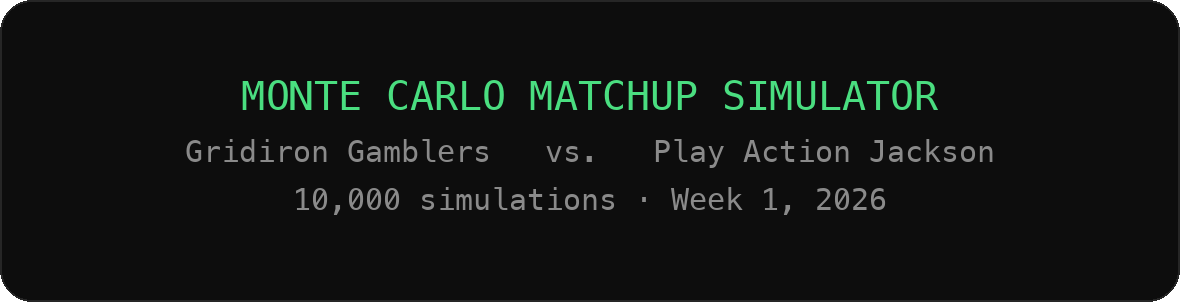
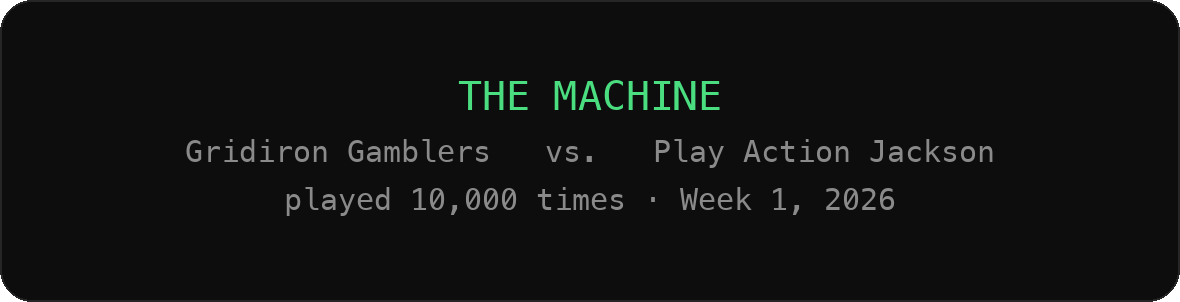
Rebrand to The Machine and make it legible to a first-time visitor
Written for someone arriving from an Instagram DM on a phone who has never seen
this and does not know what a simulation is.

Branding. "MONTE CARLO MATCHUP SIMULATOR" becomes "THE MACHINE" with the
subline "Broomiie's Ball Knowers - your matchup, played 10,000 times", in the
page title, meta description, header and the generated report. The CLI banner
follows so the two stay consistent, and the launch-asset cards are regenerated
from it.

Jargon. The main screen no longer says Monte Carlo, lognormal, common random
numbers, standard error or percentile anywhere - checked programmatically
against the rendered report. The report footer drops "lognormal skill scoring -
common random numbers" for "played 10,000 times - seed 1234"; the technical
description moves to How It Works. The demo-data notice is rewritten in plain
English.

Onboarding. A three-step welcome card on first load only, behind a localStorage
flag, dismissed with "Let's go". A "?" in the header reopens it. If storage is
unavailable the card simply shows every time, which is the harmless direction to
fail in.

How It Works. A panel linked from the header: what a simulation is, why the
coin-flip verdict exists, why the tool refuses to guess rosters from memory,
what the provenance footer means, and what floor/ceiling is - all in plain
English, with Monte Carlo, lognormal draws, paired comparisons and quickselect
kept below a "for the nerds" rule, with links to ENGINE.md and the repo.
[…]

Changed region(s): [[0.2441, 0.6258, 0.7627, 0.7152], [0.1831, 0.2682, 0.5186, 0.3874], [0.5492, 0.2682, 0.7932, 0.3874]]

diff --git a/index.html b/index.html
@@ -3,10 +3,17 @@
 <head>
 <meta charset="utf-8">
 <meta name="viewport" content="width=device-width, initial-scale=1, viewport-fit=cover">
-<title>Monte Carlo Matchup Simulator</title>
+<title>The Machine — Broomiie's Ball Knowers</title>
 <meta name="theme-color" content="#fafaf8">
 <script>try{var t=localStorage.getItem("fantasy-sim-theme");if(t==="dark")document.documentElement.setAttribute("data-theme","dark");}catch(e){}</script>
-<meta name="description" content="Head-to-head fantasy football matchup simulator. Monte Carlo with real error bars and coin-flip honesty when calls are inseparable.">
+<meta name="description" content="The Machine — Broomiie's Ball Knowers. Your fantasy matchup, played 10,000 times. Start/sit verdicts, win odds, and no fake confidence.">
+<link rel="manifest" href="manifest.webmanifest">
+<link rel="apple-touch-icon" href="apple-touch-icon.png">
+<link rel="icon" href="icon-192.png" type="image/png">
+<meta name="mobile-web-app-capable" content="yes">
+<meta name="apple-mobile-web-app-capable" content="yes">
+<meta name="apple-mobile-web-app-title" content="The Machine">
+<meta name="apple-mobile-web-app-status-bar-style" content="default">
 <style>
 /* Light is the default; [data-theme="dark"] on <html> swaps the tokens.
    Every text colour below is AA (>=4.5:1) on its own background; --dim is
@@ -139,6 +146,52 @@ footer{color:var(--muted);font-size:11px;text-align:center;padding:18px 0 26px;l
 footer a{color:var(--muted);text-decoration:none;border-bottom:1px solid var(--edge)}
 footer a:hover{color:var(--accent);border-color:var(--accent)}
 .sep{color:var(--dim);margin:0 7px}
+/* ── header extras ── */
+.hbtns{display:flex;gap:7px;flex:0 0 auto}
+header .sub{margin-bottom:5px}
+.hiwrow{margin:0 0 16px}
+.linkbtn{background:none;border:0;color:var(--accent);font-family:inherit;font-size:12px;
+  letter-spacing:.04em;padding:6px 0;min-height:34px;border-bottom:1px solid transparent}
+.linkbtn:hover{border-bottom-color:var(--accent)}
+
+/* ── overlay (welcome + how it works) ── */
+body.locked{overflow:hidden}
+.ovl{position:fixed;inset:0;z-index:60;background:rgba(0,0,0,.55);
+  display:flex;justify-content:center;padding:14px;overflow-y:auto;-webkit-overflow-scrolling:touch}
+.ovl-card{position:relative;margin:auto;width:100%;max-width:560px;
+  background:var(--panel);border:1px solid var(--edge);border-radius:14px;
+  padding:20px 18px 24px;box-shadow:0 14px 44px rgba(0,0,0,.34)}
+.ovl-x{position:absolute;top:7px;right:7px;width:42px;height:42px;border-radius:10px;
+  background:none;border:0;color:var(--muted);font-size:15px;line-height:1;font-family:inherit}
+.ovl-x:hover{color:var(--text)}
+#ovlBody h2{font-size:14px;letter-spacing:.15em;color:var(--accent);margin:0 0 12px;padding-right:44px}
+#ovlBody h3{font-size:12.5px;letter-spacing:.05em;color:var(--text);margin:22px 0 7px;font-weight:700}
+#ovlBody h3.nerd{margin-top:28px;padding-top:20px;border-top:1px solid var(--edge)}
+#ovlBody p{font-size:13px;line-height:1.68;color:var(--muted);margin:0 0 11px}
+#ovlBody p b{color:var(--text)}
+#ovlBody a{color:var(--accent)}
+#ovlBody code{background:var(--bg);border:1px solid var(--edge);border-radius:4px;
+  padding:1px 5px;font-size:12px;color:var(--text)}
+.lede{font-size:13px;color:var(--muted);margin:0 0 14px}
+.steps{margin:0 0 20px;padding-left:20px}
+.steps li{font-size:13px;line-height:1.65;color:var(--muted);margin-bottom:12px;padding-left:3px}
+.steps li b{color:var(--text)}
+.cta{width:100%;background:var(--btn-bg);color:var(--btn-fg);border:0;font-weight:700;
+  font-family:inherit;font-size:15px;letter-spacing:.08em;min-height:52px;border-radius:10px}
+.cta:active{transform:translateY(1px)}
+.fine{font-size:11px;color:var(--muted);text-align:center;margin:13px 0 0}
+
+/* ── plain-English helpers ── */
+.fhint{font-style:normal;font-size:10px;color:var(--muted);letter-spacing:0;line-height:1.45;margin-top:2px}
+.qm{background:none;border:1px solid var(--edge);color:var(--muted);border-radius:50%;
+  width:17px;height:17px;min-height:0;font-size:9.5px;line-height:1;padding:0;font-family:inherit}
+.qm:hover{color:var(--accent);border-color:var(--accent)}
+.runbar .f>span{display:flex;align-items:center;gap:4px}
+.tip{position:fixed;left:12px;right:12px;z-index:25;
+  bottom:calc(80px + env(safe-area-inset-bottom));
+  background:var(--panel);border:1px solid var(--accent);border-radius:10px;
+  padding:11px 13px;font-size:12px;line-height:1.5;color:var(--text);box-shadow:0 6px 20px rgba(0,0,0,.22)}
+
 @media (max-width:359px){
   .wrap{padding:16px 10px 8px}
   .panel{padding:12px 10px}
@@ -157,10 +210,14 @@ footer a:hover{color:var(--accent);border-color:var(--accent)}
 <div class="wrap">
   <header>
     <div class="hrow">
-      <h1>MONTE CARLO MATCHUP SIMULATOR</h1>
-      <button class="tt" id="themeToggle" type="button" aria-label="Switch to dark theme">🌙</button>
+      <h1>THE MACHINE</h1>
+      <div class="hbtns">
+        <button class="tt" id="helpBtn" type="button" aria-label="Show the welcome guide">?</button>
+        <button class="tt" id="themeToggle" type="button" aria-label="Switch to dark theme">🌙</button>
+      </div>
     </div>
-    <p class="sub">Head-to-head fantasy football, simulated 10,000 times.</p>
+    <p class="sub">Broomiie&rsquo;s Ball Knowers &middot; your matchup, played 10,000 times.</p>
+    <p class="hiwrow"><button class="linkbtn" id="hiwBtn" type="button">How it works &rarr;</button></p>
     <p class="note" id="snapshotNote"></p>
   </header>
 
@@ -180,7 +237,7 @@ footer a:hover{color:var(--accent);border-color:var(--accent)}
 
   <section class="panel" id="csvPanel" hidden>
     <div class="panelhead"><h2>CSV IMPORT / EXPORT</h2></div>
-    <p class="sub" style="margin-bottom:9px">Same columns as <code>projections.csv</code>, so lineups round-trip with <code>sim.py</code>.</p>
+    <p class="sub" style="margin-bottom:9px">Copy your lineup out, or paste one in. Same format the command-line version uses.</p>
     <textarea id="csvText" spellcheck="false" aria-label="CSV data"></textarea>
     <div class="csvrow">
       <button class="csvbtn" id="btnCsvLoad" type="button">LOAD FROM TEXT</button>
@@ -194,9 +251,60 @@ footer a:hover{color:var(--accent);border-color:var(--accent)}
   <footer id="foot"></footer>
 </div>
 
+<div class="ovl" id="overlay" hidden>
+  <div class="ovl-card" role="dialog" aria-modal="true">
+    <button class="ovl-x" id="ovlClose" type="button" aria-label="Close">&#10005;</button>
+    <div id="ovlBody"></div>
+  </div>
+</div>
+
+<div id="tplWelcome" hidden>
+  <h2>WELCOME 🏈</h2>
+  <p class="lede">The whole thing, in three steps.</p>
+  <ol class="steps">
+    <li><b>Put in your players.</b> Tap a team and enter your league&rsquo;s players and projections &mdash; or just hit RUN to see a demo.</li>
+    <li><b>Hit RUN.</b> The machine plays your matchup 10,000 times.</li>
+    <li><b>Read your verdicts.</b> Start/sit calls, win odds, floor and ceiling, and the biggest edge sitting on your bench.</li>
+  </ol>
+  <button class="cta js-go" type="button">Let&rsquo;s go 🏈</button>
+  <p class="fine">You can reopen this any time with the <b>?</b> up top.</p>
+</div>
+
+<div id="tplHiw" hidden>
+  <h2>HOW IT WORKS</h2>
+
+  <h3>What this actually does</h3>
+  <p>Nobody knows what your players will score on Sunday. So rather than guess once, the machine plays your matchup <b>10,000 times</b> &mdash; 10,000 alternate Sundays, each one a little different &mdash; and counts how often you win.</p>
+  <p>That&rsquo;s where your win odds come from. Not a hunch. A tally.</p>
+
+  <h3>Why it sometimes says &ldquo;coin flip&rdquo;</h3>
+  <p>Every number here comes with a margin for error. When two lineup choices are closer together than that margin, the machine says so instead of picking one anyway.</p>
+  <p>That&rsquo;s deliberate. A tool that always sounds confident is bluffing some of the time. This one would rather tell you the truth: <i>it genuinely doesn&rsquo;t matter &mdash; go with whoever&rsquo;s injury report you like better.</i></p>
+
+  <h3>Why it won&rsquo;t guess your roster</h3>
+  <p>Players get traded. A tool that &ldquo;remembers&rdquo; rosters goes stale the day someone changes teams, and you&rsquo;d never know &mdash; it would quietly simulate the wrong guy on the wrong team and hand you a confident answer.</p>
+  <p>So the machine knows nothing on its own. Every name, team and number comes from the data in front of you. If something&rsquo;s wrong you can see it, and fix it in one tap.</p>
+
+  <h3>The small print under your results</h3>
+  <p>That last line tallies where each projection came from. <b>consensus</b> came straight from a public projection table. <b>derived</b> was worked out from a season-long number. <b>ESTIMATE-UNVERIFIED</b> means nobody published one and it&rsquo;s a best guess &mdash; treat those with suspicion. <b>edited</b> means you typed it yourself.</p>
+  <p>It&rsquo;s there so the results never look more solid than the numbers underneath them.</p>
+
+  <h3>Floor and ceiling</h3>
+  <p>Every player row shows a range like <code>9&ndash;28</code>. That&rsquo;s his bad day to his best day: across those 10,000 Sundays he lands somewhere in that range about 8 times out of 10. The single projection is just the middle of it.</p>
+  <p>Two players can share a projection and have completely different ranges. Quite often, that <i>is</i> the start/sit decision.</p>
+
+  <h3 class="nerd">For the nerds 🤓</h3>
+  <p>It&rsquo;s a Monte Carlo simulation. Skill-position scores are drawn from a lognormal matched to each player&rsquo;s projection and standard deviation &mdash; right-skewed, floored at zero, because a receiver can drop 40 on you but never &minus;3. Kickers and defenses use a normal with a hard floor.</p>
+  <p>Every player gets his own fixed random stream, so when a bench swap is tested the other eight starters are bit-identical week to week. That makes it a paired comparison, which shrinks the error bar on a swap by about <b>6&times;</b> against two independent runs. The quoted bar is two standard errors of that paired difference, and it has been checked against the estimator&rsquo;s real spread &mdash; claimed over true comes out at <b>0.99</b>.</p>
+  <p>Floor and ceiling are the 10th and 90th percentile of each player&rsquo;s own draws, taken by quickselect rather than a full sort.</p>
+  <p>There is also a command-line version in the repo. It uses a different random number generator, so the same seed produces different draws &mdash; same statistics, different digits. Both converge on the same answer.</p>
+  <p>The full spec &mdash; including a candid account of what the model gets wrong and what evidence would overturn each design choice &mdash; is in <a href="ENGINE.md" rel="noopener">ENGINE.md</a>. Source on <a href="https://github.com/cbroomew/fantasy-sim" rel="noopener">GitHub</a>.</p>
+</div>
+
+<div class="tip" id="tip" hidden></div>
 <div class="runbar">
-  <label class="f seed">SEED<input id="seed" type="number" inputmode="numeric" value="1234"></label>
-  <label class="f sims">SIMS<select id="sims">
+  <label class="f seed"><span>SEED <button class="qm" type="button" data-tip="Keeps results repeatable — same seed, same numbers.">?</button></span><input id="seed" type="number" inputmode="numeric" value="1234"></label>
+  <label class="f sims"><span>SIMS <button class="qm" type="button" data-tip="How many times we play your matchup. More = steadier numbers.">?</button></span><select id="sims">
     <option value="1000">1,000</option>
     <option value="10000" selected>10,000</option>
     <option value="50000">50,000</option>
@@ -215,7 +323,7 @@ footer a:hover{color:var(--accent);border-color:var(--accent)}
    ───────────────────────────────────────────────────────────────────────── */
 const ROOM_URL = "https://whop.com/broomiie-s-ball-knowers/the-locker-room-62/";
 
-const SNAPSHOT = "The preloaded projections are a frozen snapshot verified 2026-09-04, not a live feed. Four rows are unverified estimates. Edit anything below, or load your own league's CSV.";
+const SNAPSHOT = "These are demo numbers, checked on 2026-09-04 and frozen there — not live. Four of them are educated guesses rather than published projections. Swap in your own league below, or just hit RUN to see it work.";
 
 const DEFAULT_ROSTER = [
   {"id": "p0", "team": "Gridiron Gamblers", "slot": "QB", "name": "Josh Allen", "pos": "QB", "nfl": "BUF", "opp": "@HOU", "proj": 19.5, "std": 6.4, "source": "consensus"},
@@ -547,7 +655,7 @@ function renderReport(res, cols){
   /* ── header ── */
   const inner = cols - 4;
   const addH = segs => { segs.cls = "callout hdr"; L.push(segs); };
-  addH([S(ctr("MONTE CARLO MATCHUP SIMULATOR", inner), "accent")]);
+  addH([S(ctr("THE MACHINE", inner), "accent")]);
   const vs = A + "  vs.  " + B;
   if (vs.length <= inner){
     addH([S(ctr(vs, inner), "muted")]);
@@ -556,7 +664,7 @@ function renderReport(res, cols){
     addH([S(ctr("vs.", inner), "muted")]);
     addH([S(ctr(B, inner), "muted")]);
   }
-  addH([S(ctr(res.sims.toLocaleString() + " simulations", inner), "muted")]);
+  addH([S(ctr("played " + res.sims.toLocaleString() + " times", inner), "muted")]);
 
   /* ── lineups ── */
   sectionHead(L, "STARTING LINEUPS", cols);
@@ -593,6 +701,9 @@ function renderReport(res, cols){
       L.push([S(padE("PROJECTED TOTAL", cols - 6) + padS(res.projTotal[t].toFixed(1), 6), "muted")]);
     }
   }
+  L.push([]);
+  for (const w of wrapText("10–90% is his bad day to his best day — he lands in that range about 8 weeks out of 10.", cols))
+    L.push(LN(w, "muted"));
 
   /* ── win probability ── */
   sectionHead(L, "WIN PROBABILITY", cols);
@@ -738,8 +849,7 @@ function renderReport(res, cols){
   /* ── provenance footer ── */
   L.push([]);
   L.push(LN(rep("─", cols), "dim"));
-  for (const w of wrapText(res.sims.toLocaleString() + " sims · seed " + res.seed
-        + " · lognormal skill scoring · common random numbers", cols))
+  for (const w of wrapText("played " + res.sims.toLocaleString() + " times · seed " + res.seed, cols))
     L.push(LN(w, "muted"));
   const tallyTxt = Object.entries(res.tally).map(([k, v]) => v + " " + k).join(" · ");
   if (tallyTxt)
@@ -850,10 +960,16 @@ function renderTabs(){
   }
 }
 
-function field(labelText, el){
+function field(labelText, el, hint){
   const l = document.createElement("label");
   const s = document.createElement("span"); s.textContent = labelText;
-  l.appendChild(s); l.appendChild(el); return l;
+  l.appendChild(s); l.appendChild(el);
+  if (hint){
+    const h = document.createElement("i");
+    h.className = "fhint"; h.textContent = hint;
+    l.appendChild(h);
+  }
+  return l;
 }
 function inp(type, value, oninput, mode){
   const e = document.createElement("input");
@@ -916,14 +1032,15 @@ function rowEl(p){
     })));
     e.appendChild(field("SLOT", sel(["BN"].concat(ELIGIBLE[p.pos] || []), p.slot, v => {
       setSlot(p, v); touch(); renderRoster();
-    })));
-    e.appendChild(field("NFL", inp("text", p.nfl, v => { p.nfl = v.toUpperCase(); touch(); })));
-    e.appendChild(field("OPP", inp("text", p.opp, v => { p.opp = v; touch(); })));
+    }), "starting spot, or bench"));
+    e.appendChild(field("NFL", inp("text", p.nfl, v => { p.nfl = v.toUpperCase(); touch(); }), "his NFL team"));
+    e.appendChild(field("OPP", inp("text", p.opp, v => { p.opp = v; touch(); }), "who he plays"));
     e.appendChild(field("PROJ", inp("number", p.proj, v => {
       p.proj = parseFloat(v); touched(p); pj.textContent = (parseFloat(v) || 0).toFixed(1);
       pj.classList.remove("est"); touch();
-    }, "decimal")));
-    e.appendChild(field("STD", inp("number", p.std, v => { p.std = parseFloat(v); touched(p); touch(); }, "decimal")));
+    }, "decimal"), "points he's projected to score"));
+    e.appendChild(field("STD", inp("number", p.std, v => { p.std = parseFloat(v); touched(p); touch(); }, "decimal"),
+                        "how boom-or-bust he is"));
     const rm = document.createElement("button");
     rm.type = "button"; rm.className = "rm"; rm.textContent = "REMOVE";
     rm.onclick = () => {
@@ -1075,10 +1192,63 @@ function renderFooter(){
     f.append(sep, r);
   }
   const br = document.createElement("div");
-  br.textContent = "Runs entirely in your browser. Numbers differ slightly from the sim.py CLI — same statistics, different draws.";
+  br.textContent = "Runs entirely in your browser — your lineup never leaves your phone.";
   br.style.cssText = "margin-top:8px;font-size:10px;line-height:1.7";
   f.appendChild(br);
 }
+
+/* ── welcome + how it works ── */
+const WELCOME_KEY = "fantasy-sim-seen-welcome";
+let lastFocus = null;
+
+function openOverlay(tplId){
+  const body = $("ovlBody");
+  body.textContent = "";
+  for (const node of [...$(tplId).cloneNode(true).childNodes]) body.appendChild(node);
+  const h2 = body.querySelector("h2");
+  body.parentElement.setAttribute("aria-label", h2 ? h2.textContent : "Information");
+  const go = body.querySelector(".js-go");
+  if (go) go.onclick = closeOverlay;
+  lastFocus = document.activeElement;
+  $("overlay").hidden = false;
+  document.body.classList.add("locked");
+  (go || $("ovlClose")).focus();
+}
+function closeOverlay(){
+  $("overlay").hidden = true;
+  document.body.classList.remove("locked");
+  if (lastFocus && lastFocus.focus) lastFocus.focus();
+}
+$("helpBtn").onclick  = () => openOverlay("tplWelcome");
+$("hiwBtn").onclick   = () => openOverlay("tplHiw");
+$("ovlClose").onclick = closeOverlay;
+$("overlay").onclick  = e => { if (e.target === $("overlay")) closeOverlay(); };
+addEventListener("keydown", e => { if (e.key === "Escape" && !$("overlay").hidden) closeOverlay(); });
+
+/* First load only. If storage is unavailable the card simply shows every time,
+   which is the harmless direction to fail in. */
+let seenWelcome = false;
+try { seenWelcome = localStorage.getItem(WELCOME_KEY) === "1"; } catch (e) {}
+if (!seenWelcome){
+  openOverlay("tplWelcome");
+  try { localStorage.setItem(WELCOME_KEY, "1"); } catch (e) {}
+}
+
+/* ── tap tips for the cramped run-bar labels ── */
+let tipTimer = null;
+document.addEventListener("click", e => {
+  const btn = e.target.closest("[data-tip]");
+  const tip = $("tip");
+  if (btn){
+    e.preventDefault(); e.stopPropagation();
+    tip.textContent = btn.dataset.tip;
+    tip.hidden = false;
+    clearTimeout(tipTimer);
+    tipTimer = setTimeout(() => { tip.hidden = true; }, 5000);
+  } else if (!tip.hidden){
+    tip.hidden = true;
+  }
+});
 
 /* ── theme ── */
 const THEME_KEY = "fantasy-sim-theme";

diff --git a/sim.py b/sim.py
@@ -208,6 +208,10 @@ def print_lineups(name_a, lu_a, name_b, lu_b, bands):
     p("  %-*s  %-*s" % (half, "─" * half, half, "─" * half))
     tot = lambda lu: "%-33s %5.1f" % ("PROJECTED TOTAL", sum(x.proj for x in lu.values()))
     p("  %-*s  %-*s" % (half, tot(lu_a), half, tot(lu_b)))
+    p()
+    for line in textwrap.wrap("10–90% is his bad day to his best day — he lands in "
+                              "that range about 8 weeks out of 10.", W - 4):
+        p("  " + line)
 
 
 # ─── start/sit analysis ───────────────────────────────────────────────────────
@@ -306,9 +310,9 @@ def main():
     # ── header ──
     p()
     p("┌" + "─" * (W - 2) + "┐")
-    for line in ("MONTE CARLO MATCHUP SIMULATOR",
+    for line in ("THE MACHINE",
                  "%s   vs.   %s" % (name_a, name_b),
-                 "%s simulations · %s" % (format(args.sims, ","), args.week)):
+                 "played %s times · %s" % (format(args.sims, ","), args.week)):
         p("│" + line.center(W - 2) + "│")
     p("└" + "─" * (W - 2) + "┘")
 

diff --git a/README.md b/README.md
@@ -18,9 +18,15 @@ No dependencies — Python 3 standard library only. No install step, no virtuale
 > demonstrate the format — replace it with your own league's projections before
 > drawing any conclusion from the output.
 
-## Web app
+## Web app — "The Machine"
 
 **https://cbroomew.github.io/fantasy-sim/**
+
+Branded for Broomiie's Ball Knowers, and written for someone arriving from a
+phone who has never seen a simulator before: a first-visit walkthrough, a plain
+English *How it works* panel with the maths kept below a "for the nerds" line,
+helper text on every field, and a web manifest so Add to Home Screen gives a
+proper icon and a full-screen launch.
 
 The same simulator as a single self-contained page — `index.html`, no server, no
 build step, no CDN, no dependencies. It works offline once loaded. Both lineups
